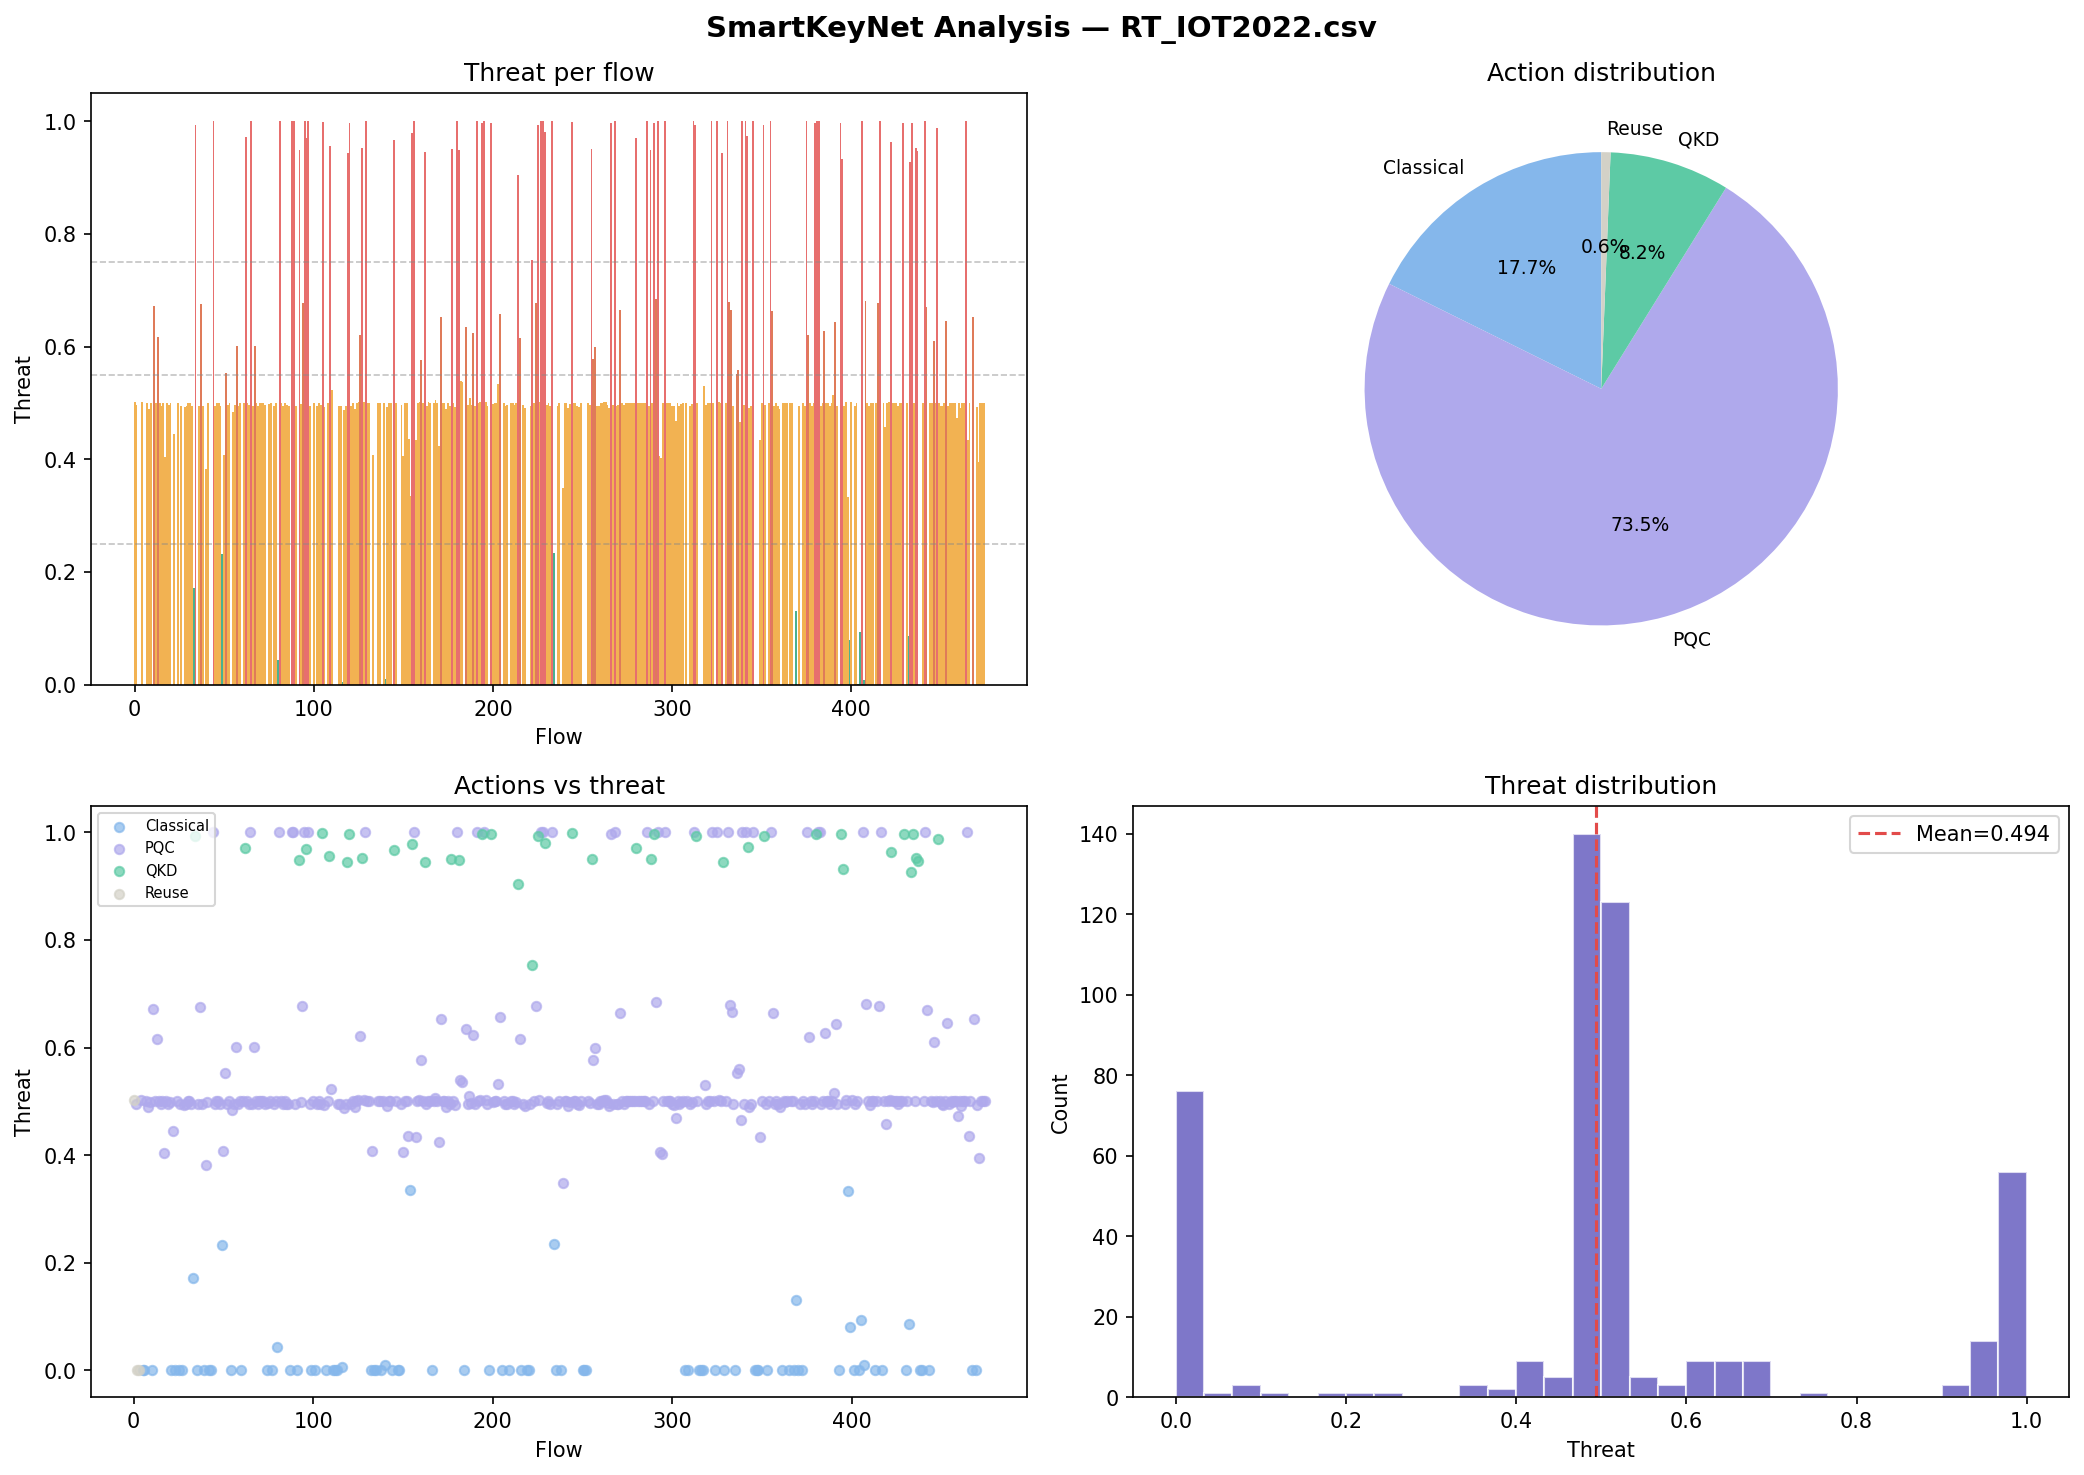
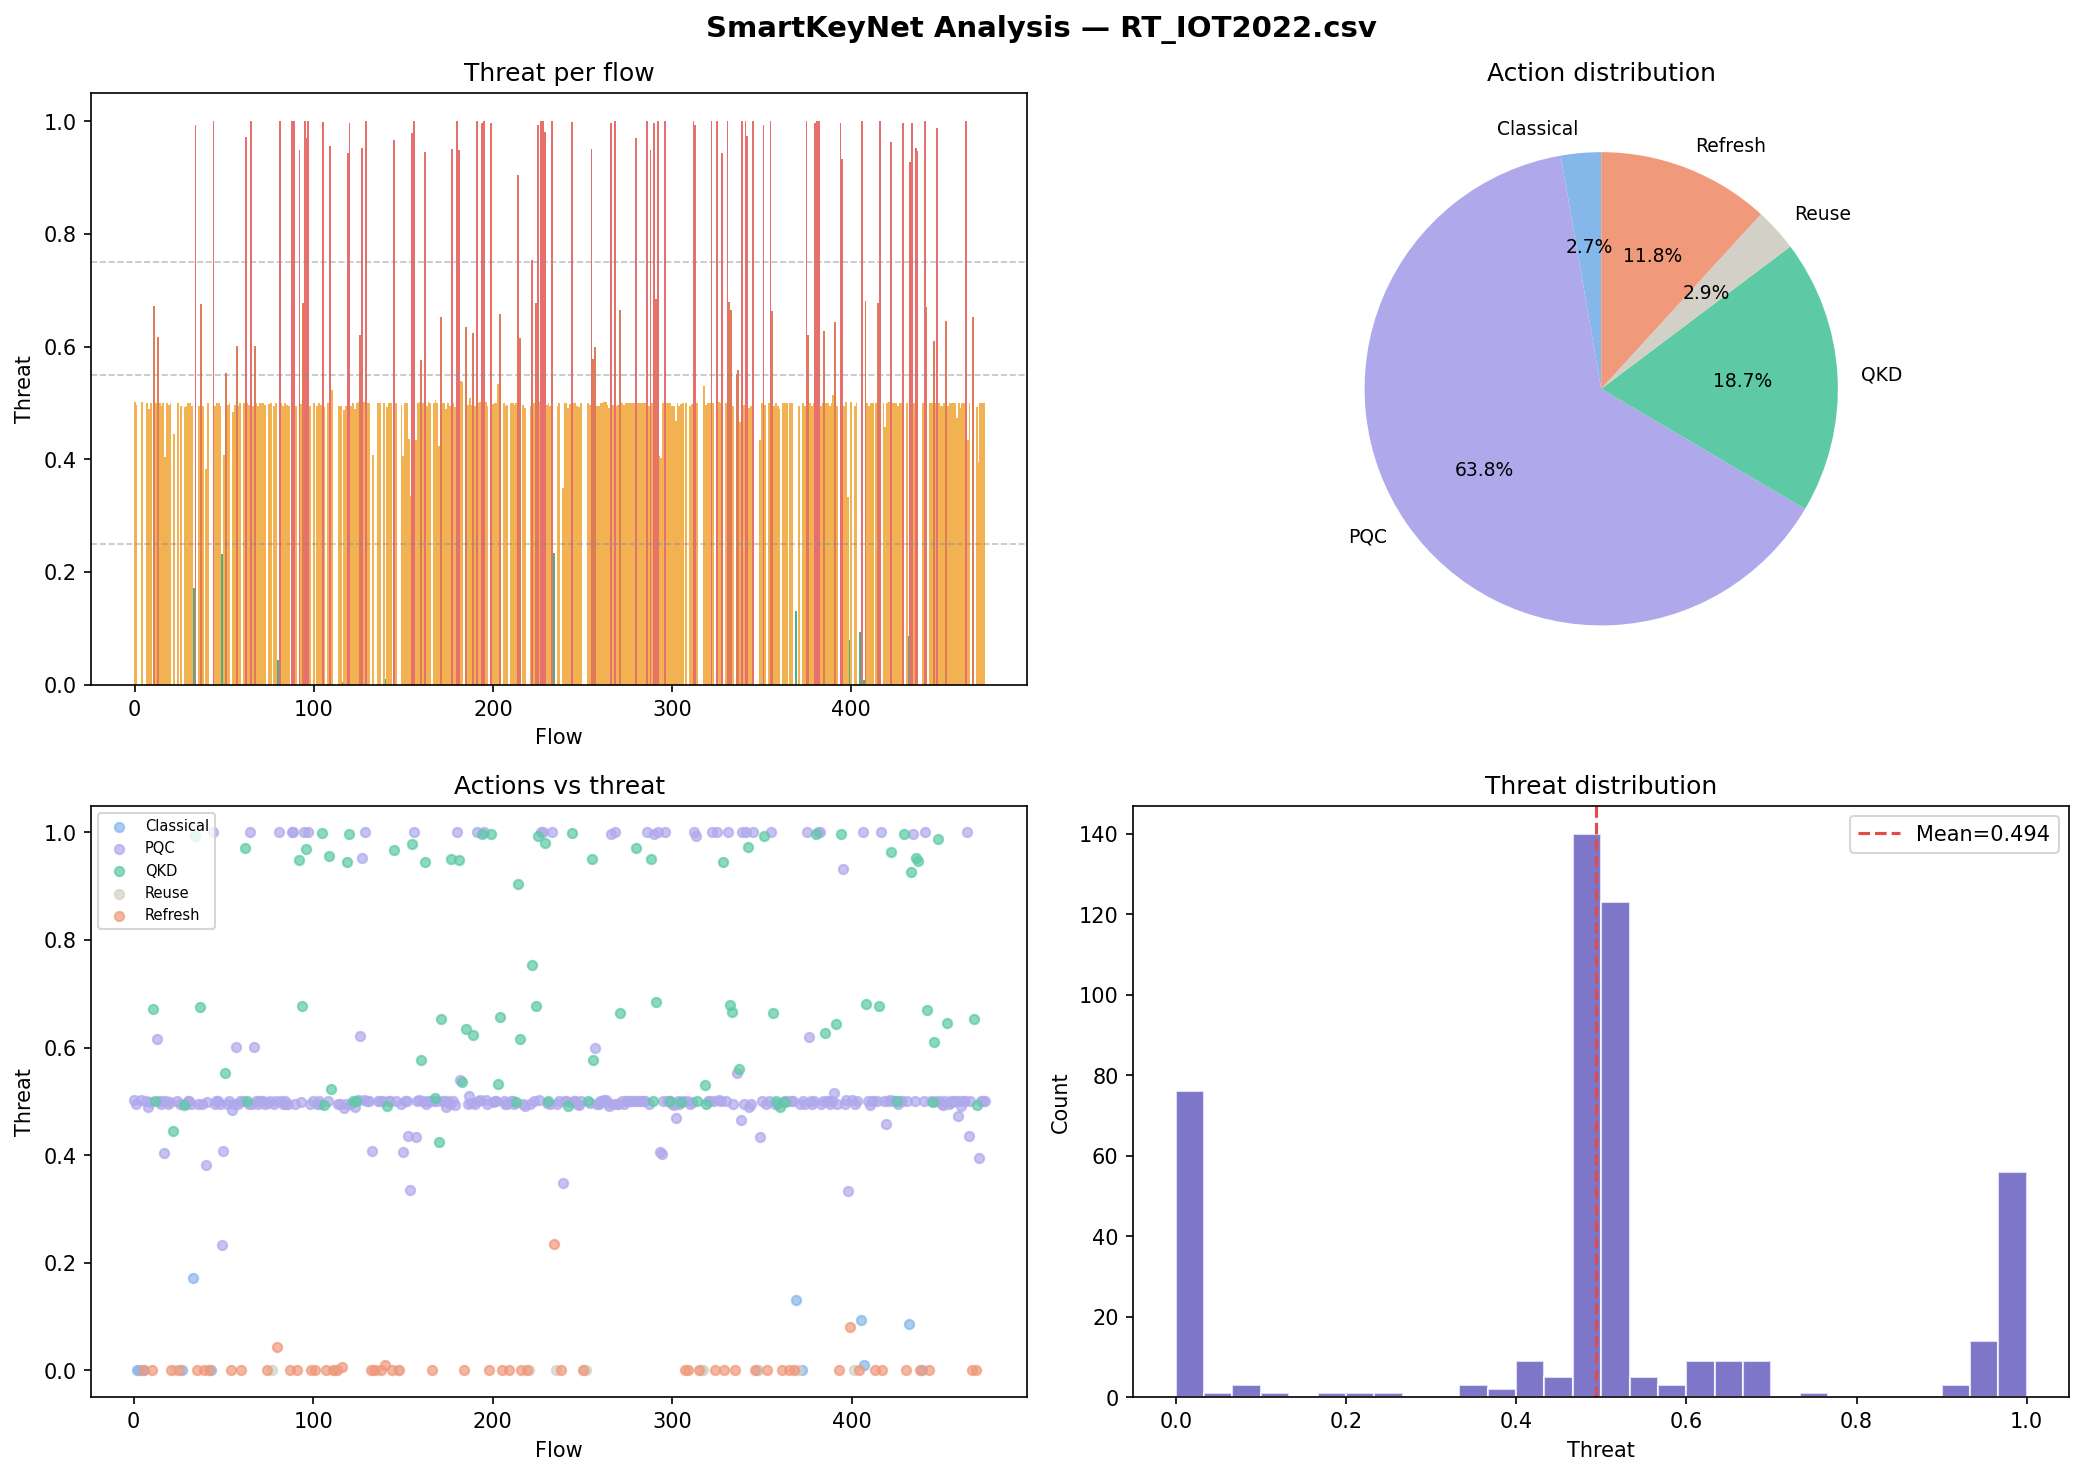
updated fixed for lstm

diff --git a/analyze_capture.py b/analyze_capture.py
@@ -154,8 +154,16 @@ def main():
         skr=float(np.clip(0.85-2*(qber-0.03)+np.random.normal(0,0.02),0.3,1.0))
         pqc=float(np.clip((0.4+0.45*pkt+0.18*threat)*np.random.normal(1,0.08),0.3,0.9))
         p = pred.predict(list(th)) if pred and len(th)>=5 else None
-        state = np.array([threat,qber,skr,pkt,lat,pqc,min(key_age/10,1)],dtype=np.float32)
-        if p is not None: state = np.append(state, float(p))
+        
+        base_state = [threat,qber,skr,pkt,lat,pqc,min(key_age/10,1)]
+        
+        # 🔥 FIX: ALWAYS match state dimension
+        if args.use_lstm:
+            pred_val = float(p) if p is not None else 0.0
+            state = np.array(base_state + [pred_val], dtype=np.float32)
+        else:
+            state = np.array(base_state, dtype=np.float32)
+            
         action, known = agent.act(state); ac[action]+=1
         if action==4: key_age=0
         else: key_age+=1
